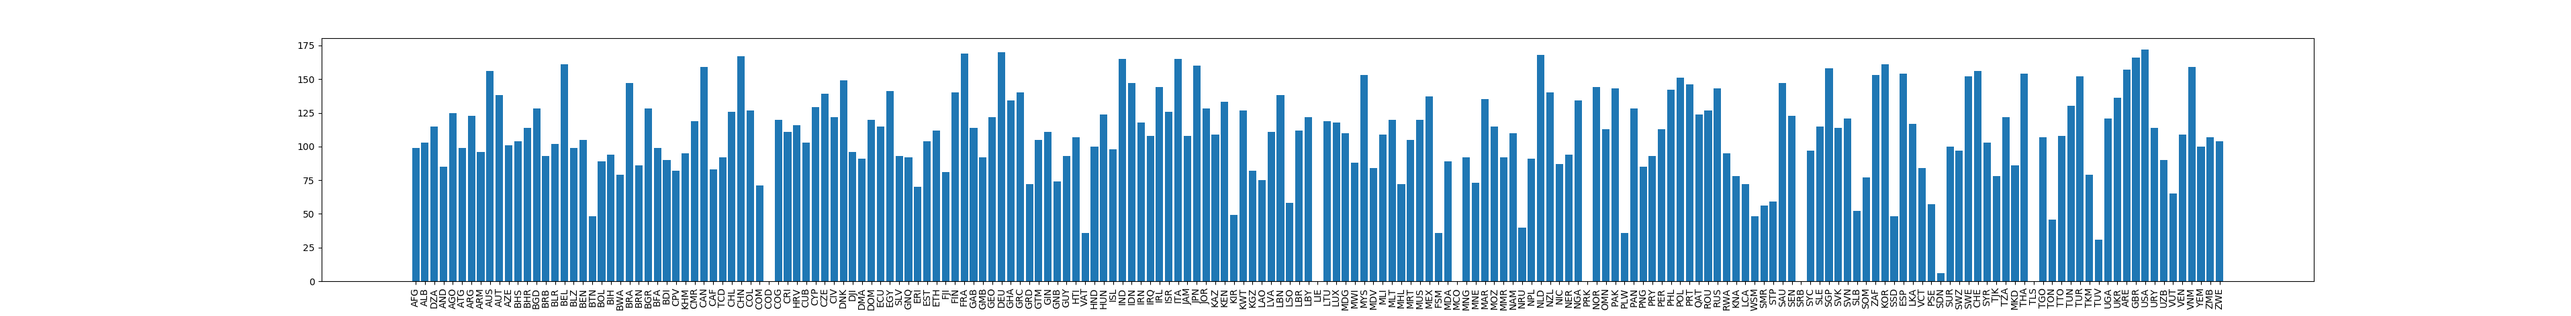
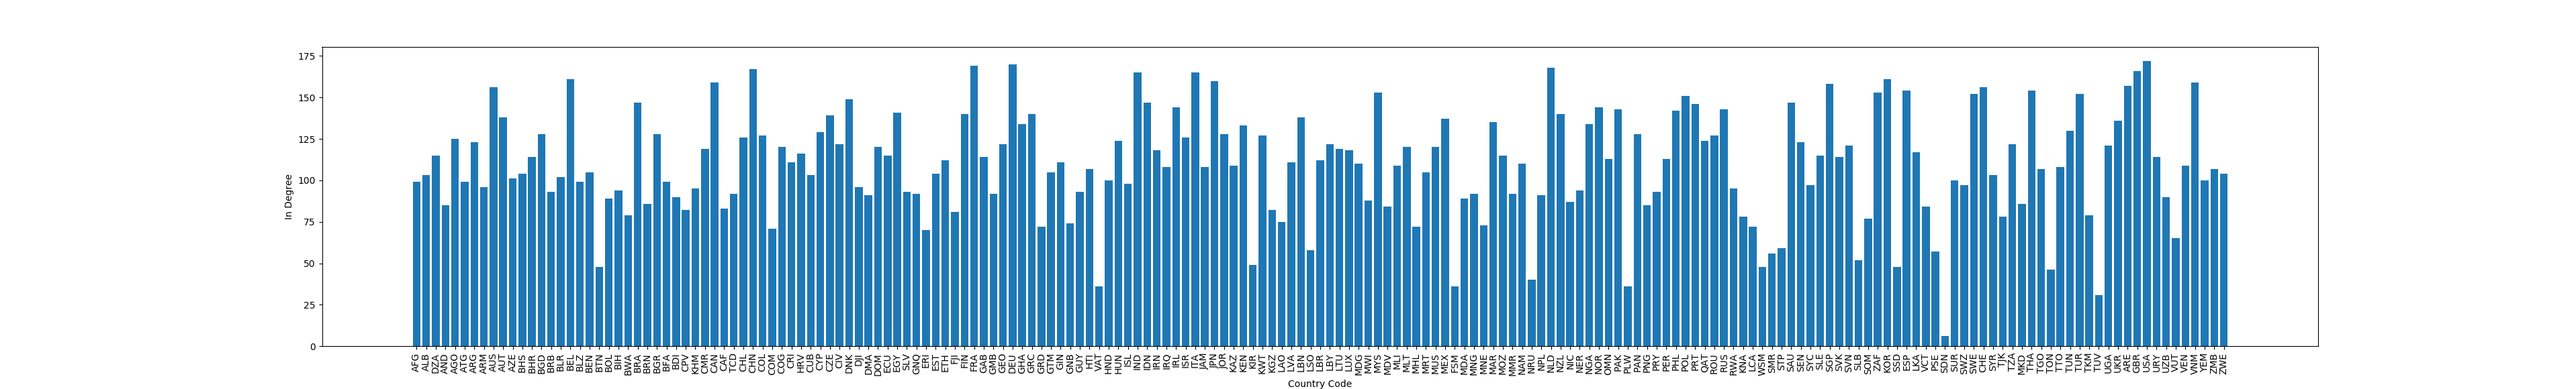
Adjusted degree plots and added WTW graph

Changed region(s): [[0.1554, 0.1483, 0.8702, 1.0], [0.0932, 0.4449, 0.1243, 0.4746]]

diff --git a/performCalculations.py b/performCalculations.py
@@ -21,13 +21,20 @@ def degreeDistribution(G):
 
 	sortedIn = sorted(countryInDegrees.items(), key=operator.itemgetter(1))
 
+	plt.ylabel('In Degree')
+	plt.xlabel('Country Code')
 	plt.bar(range(len(countryInDegrees)), countryInDegrees.values())
 	plt.xticks(range(len(countryInDegrees)), list(countryInDegrees.keys()), rotation=90)
 	plt.show()
 
+	plt.ylabel('Out Degree')
+	plt.xlabel('Country Code')
 	plt.bar(range(len(countryOutDegrees)), countryOutDegrees.values())
 	plt.xticks(range(len(countryOutDegrees)), list(countryOutDegrees.keys()), rotation=90)
 	plt.show()
+
+def clusteringDistribution(G):
+	pass
 
 #method to return the graph with a given filename (adjlist file)
 def loadGraph(fileName):
